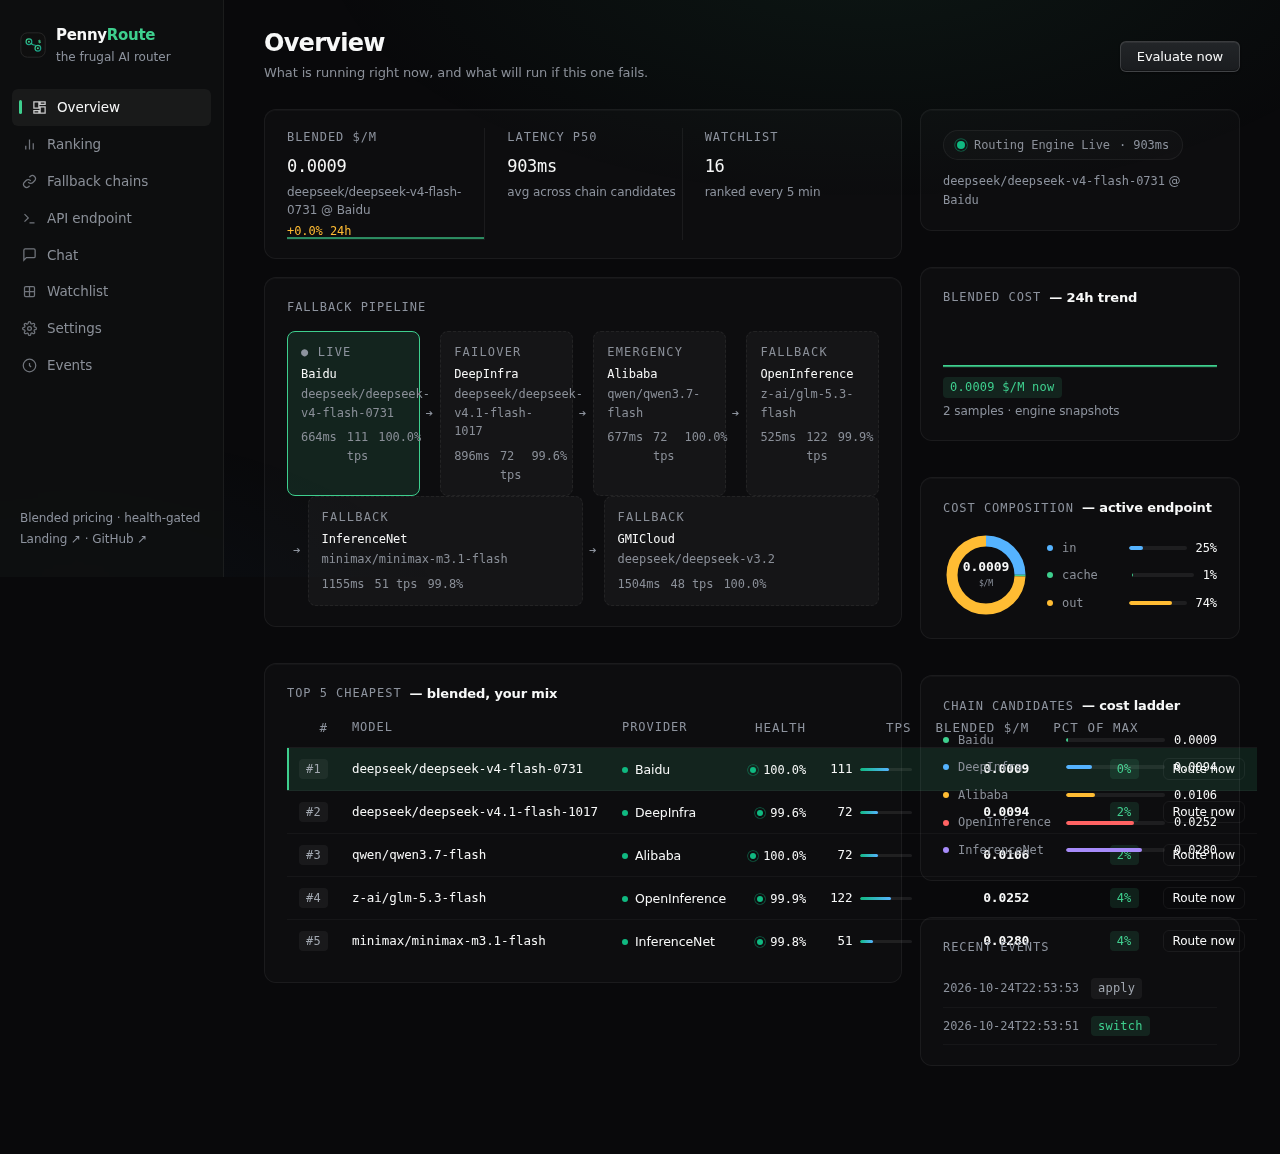
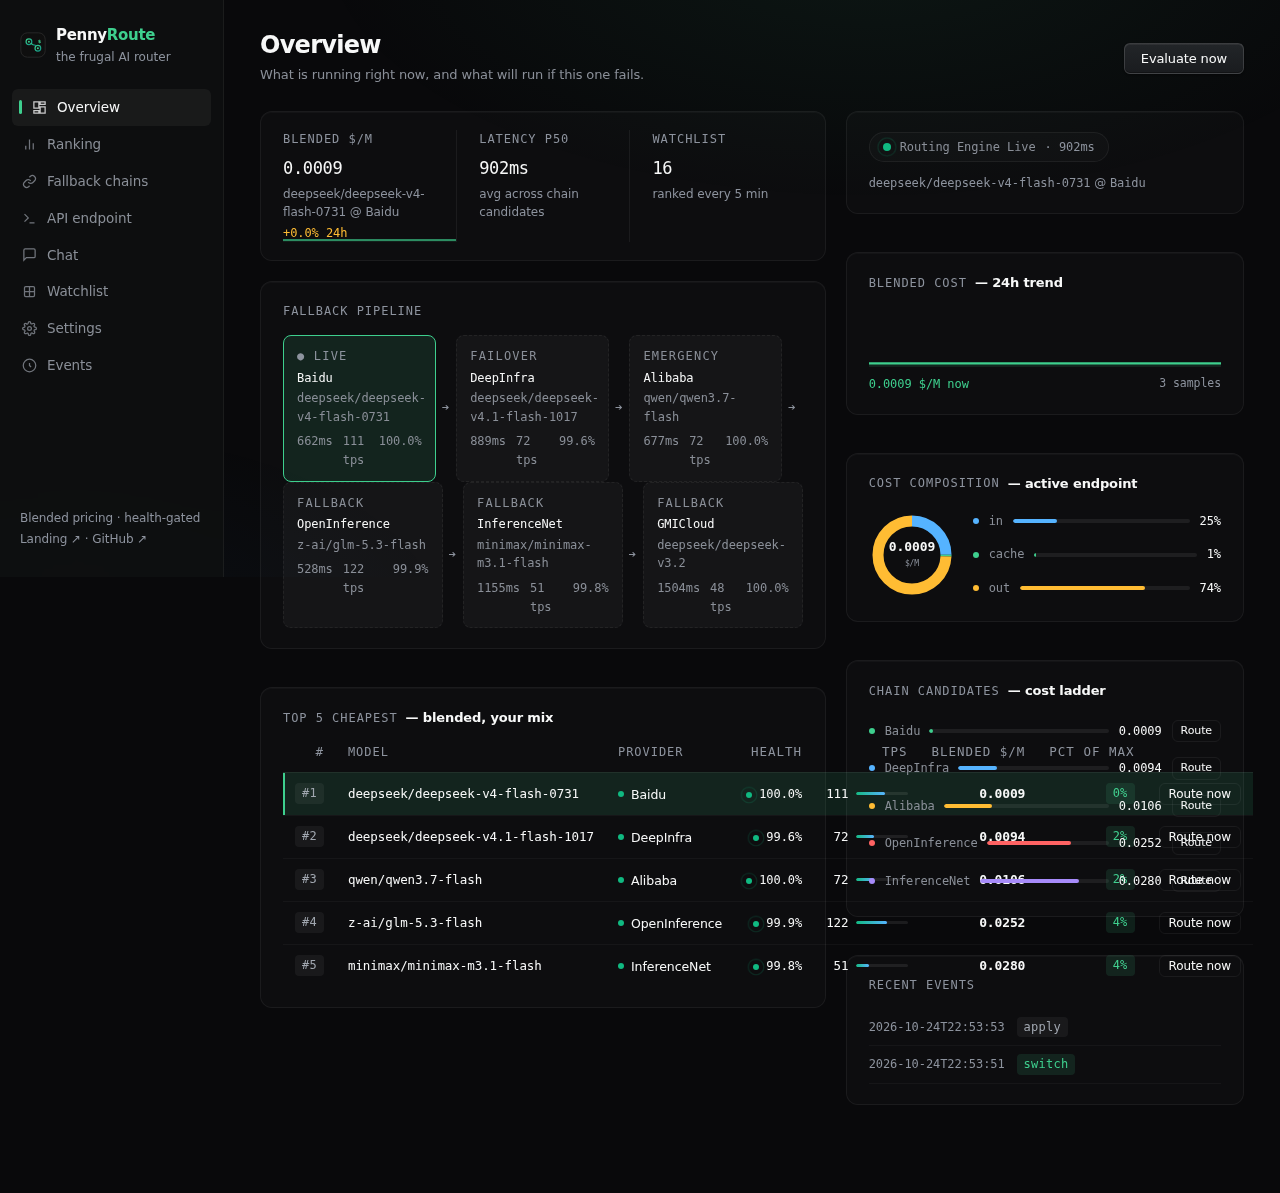
Overview: full-width fluid 12-col grid (no max-width), ladder rows flex justify-between with Route buttons, trend panel without absolute positioning

diff --git a/static/style.css b/static/style.css
@@ -97,7 +97,11 @@ body {
 .side-foot a:hover { color: var(--text); }
 
 /* ————— main ————— */
-.main { padding: 30px 40px 70px; max-width: 1220px; }
+.main {
+  padding: 32px 36px 70px;
+  width: 100%;
+  min-height: 100vh;
+}
 .page-head { display: flex; align-items: center; justify-content: space-between; gap: 16px; margin-bottom: 26px; flex-wrap: wrap; }
 .page-head h1 {
   font-size: 24px; font-weight: 600; margin: 0; line-height: 1.15;
@@ -252,11 +256,26 @@ label.field {
 .switch { display: inline-flex; align-items: center; gap: 8px; cursor: pointer; font-size: 13px; color: var(--muted); }
 .switch input { width: auto; accent-color: var(--green); }
 
-/* ————— overview v2: fluid 12-col grid ————— */
-.ov-grid { display: grid; grid-template-columns: 1fr 320px; gap: 18px; align-items: start; }
-.ov-main { display: flex; flex-direction: column; gap: 18px; min-width: 0; }
-.ov-side { display: flex; flex-direction: column; gap: 18px; position: sticky; top: 18px; }
-@media (max-width: 1080px) { .ov-grid { grid-template-columns: 1fr; } .ov-side { position: static; } }
+/* ————— overview v2: fluid 12-col grid, full width ————— */
+.ov-grid {
+  display: grid;
+  grid-template-columns: repeat(12, 1fr);
+  gap: 20px;
+  align-items: start;
+  width: 100%;
+}
+.ov-main { grid-column: span 8; display: flex; flex-direction: column; gap: 20px; min-width: 0; }
+.ov-side { grid-column: span 4; display: flex; flex-direction: column; gap: 20px; position: sticky; top: 18px; min-width: 0; }
+.ov-main > *, .ov-side > * { width: 100%; }
+@media (max-width: 1280px) {
+  .ov-main { grid-column: span 7; }
+  .ov-side { grid-column: span 5; }
+}
+@media (max-width: 1024px) {
+  .ov-grid { grid-template-columns: 1fr; }
+  .ov-main, .ov-side { grid-column: span 1; }
+  .ov-side { position: static; }
+}
 
 /* live indicator */
 .live-pill {
@@ -302,12 +321,26 @@ label.field {
 
 /* donut + share bars */
 .donut-wrap { display: flex; align-items: center; gap: 18px; }
-.share-list { flex: 1; display: flex; flex-direction: column; gap: 9px; min-width: 0; }
-.share-row { display: flex; align-items: center; gap: 9px; font-family: var(--mono); font-size: 12px; }
-.share-row .nm { color: var(--muted); flex: 1; white-space: nowrap; overflow: hidden; text-overflow: ellipsis; }
-.share-row .pc { color: var(--text); flex: none; }
-.share-row .bar { flex: 1; height: 4px; border-radius: 2px; background: rgba(255,255,255,0.07); overflow: hidden; min-width: 40px; }
+.share-list { flex: 1; display: flex; flex-direction: column; gap: 7px; min-width: 0; }
+.share-row {
+  display: flex; align-items: center; justify-content: space-between;
+  gap: 10px; font-family: var(--mono); font-size: 12px; padding: 4px 0;
+}
+.share-row .nm { color: var(--muted); flex: 0 1 auto; white-space: nowrap; overflow: hidden; text-overflow: ellipsis; max-width: 30%; }
+.share-row .bar { flex: 1 1 auto; height: 4px; border-radius: 2px; background: rgba(255,255,255,0.07); overflow: hidden; min-width: 30px; }
 .share-row .bar span { display: block; height: 100%; border-radius: 2px; }
+.share-row .pc { color: var(--text); flex: 0 0 auto; }
+.share-row .route {
+  flex: 0 0 auto; padding: 2px 8px; font-size: 11px; line-height: 1.5;
+}
+.share-row .growbar { display: flex; align-items: center; gap: 9px; flex: 1 1 auto; min-width: 0; }
+.share-row .growbar .nm { max-width: 60%; }
+
+/* trend panel: no absolute positioning, clean flex */
+.trend-box { display: flex; flex-direction: column; gap: 8px; }
+.trend-meta { display: flex; align-items: center; justify-content: space-between; gap: 10px; }
+.trend-now { font-family: var(--mono); font-size: 12px; color: var(--green); }
+.trend-samples { color: var(--faint); font-size: 11.5px; font-family: var(--mono); }
 
 /* ————— chain pipeline ————— */
 .chain-flow { display: flex; align-items: center; flex-wrap: wrap; gap: 8px; margin: 6px 0; }

diff --git a/static/app.js b/static/app.js
@@ -225,11 +225,13 @@ async function loadOverview() {
       <div style="margin-top:12px" class="hint"><span style="font-family:var(--mono)">${esc(a.model || "—")}</span> @ <span style="font-family:var(--mono)">${esc((a.order && a.order[0]) || "—")}</span></div>
     </div>
     <div class="panel"><h2><span class="k">Blended cost</span> — 24h trend</h2>
-      <div style="position:relative;height:76px">
+      <div class="trend-box">
         ${svgSparkline(blendedSeries.length > 1 ? blendedSeries : [0, 0, 0, last || 0, last || 0], "var(--green)")}
-        <div style="position:absolute;left:0;bottom:0"><span class="badge ok">${last != null ? fmt(last) : "—"} $/M now</span></div>
+        <div class="trend-meta">
+          <span class="trend-now">${last != null ? fmt(last) : "—"} $/M now</span>
+          <span class="trend-samples">${tml.points.length} samples</span>
+        </div>
       </div>
-      <div class="hint" style="margin-top:4px">${tml.points.length} samples · engine snapshots</div>
     </div>
     <div class="panel"><h2><span class="k">Cost composition</span> — active endpoint</h2>
       ${b ? `<div class="donut-wrap">
@@ -243,11 +245,24 @@ async function loadOverview() {
       </div>` : '<div class="empty">no data</div>'}
     </div>
     <div class="panel"><h2><span class="k">Chain candidates</span> — cost ladder</h2>
-      <div class="share-list">${cands.slice(0, 5).map((c, i) => `<div class="share-row"><span class="dot" style="background:${PALETTE[i % PALETTE.length]}"></span><span class="nm">${esc(c.provider)}</span><span class="bar"><span style="width:${((c.blended || 0) / maxC * 100).toFixed(0)}%;background:${PALETTE[i % PALETTE.length]}"></span></span><span class="pc">${c.blended != null ? fmt(c.blended) : "—"}</span></div>`).join("") || '<div class="empty">no candidates</div>'}</div>
+      <div class="share-list">${cands.slice(0, 5).map((c, i) => `<div class="share-row">
+        <span class="dot" style="background:${PALETTE[i % PALETTE.length]};flex:none"></span>
+        <div class="growbar">
+          <span class="nm" title="${esc(c.model)}">${esc(c.provider)}</span>
+          <span class="bar"><span style="width:${((c.blended || 0) / maxC * 100).toFixed(0)}%;background:${PALETTE[i % PALETTE.length]}"></span></span>
+        </div>
+        <span class="pc">${c.blended != null ? fmt(c.blended) : "—"}</span>
+        <button class="sm ghost route" data-r="${esc(c.model)}" data-rp="${esc(c.provider)}">Route</button>
+      </div>`).join("") || '<div class="empty">no candidates</div>'}</div>
     </div>
     <div class="panel"><h2><span class="k">Recent events</span></h2>
       <div>${ev.events.length ? ev.events.slice(0, 5).map(e => `<div class="ev-row"><span class="ts">${esc(e.ts)}</span><span class="badge ${e.event === "switch" ? "ok" : e.event === "engine_error" ? "bad" : "neut"}">${esc(e.event)}</span></div>`).join("") : '<div class="empty">no events</div>'}</div>
     </div>`;
+
+  // ladder route buttons
+  $$("#ov-side button[data-r]").forEach(btn => btn.onclick = () => {
+    applyChoice(btn.dataset.r, btn.dataset.rp);
+  });
 
   // live refresher: ping every 5s (lightweight: just update pill + latency)
   clearInterval(_ovTimer);
